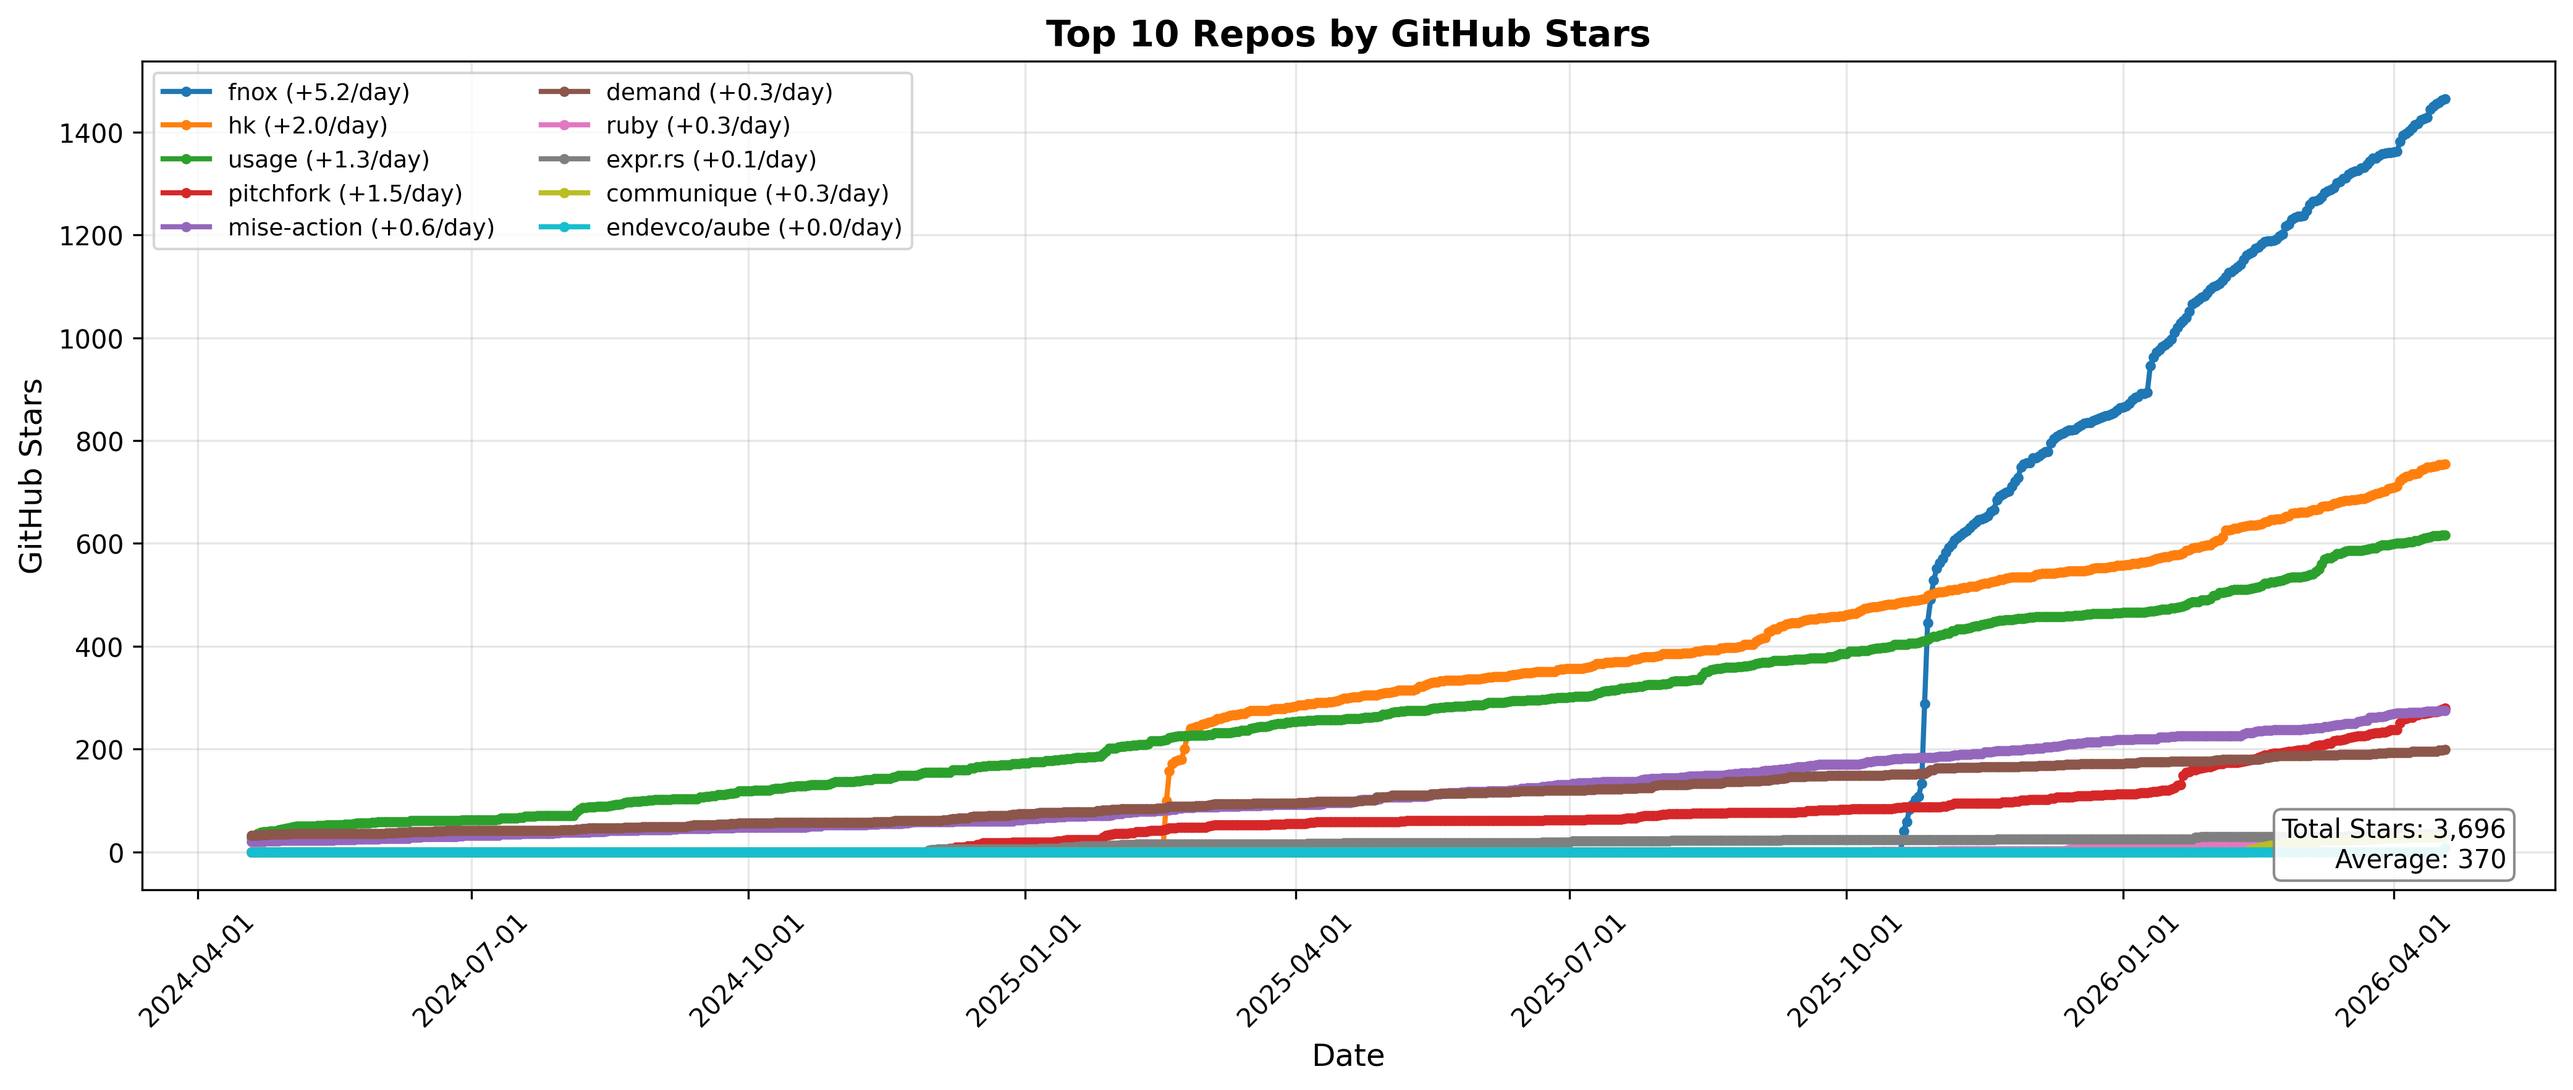
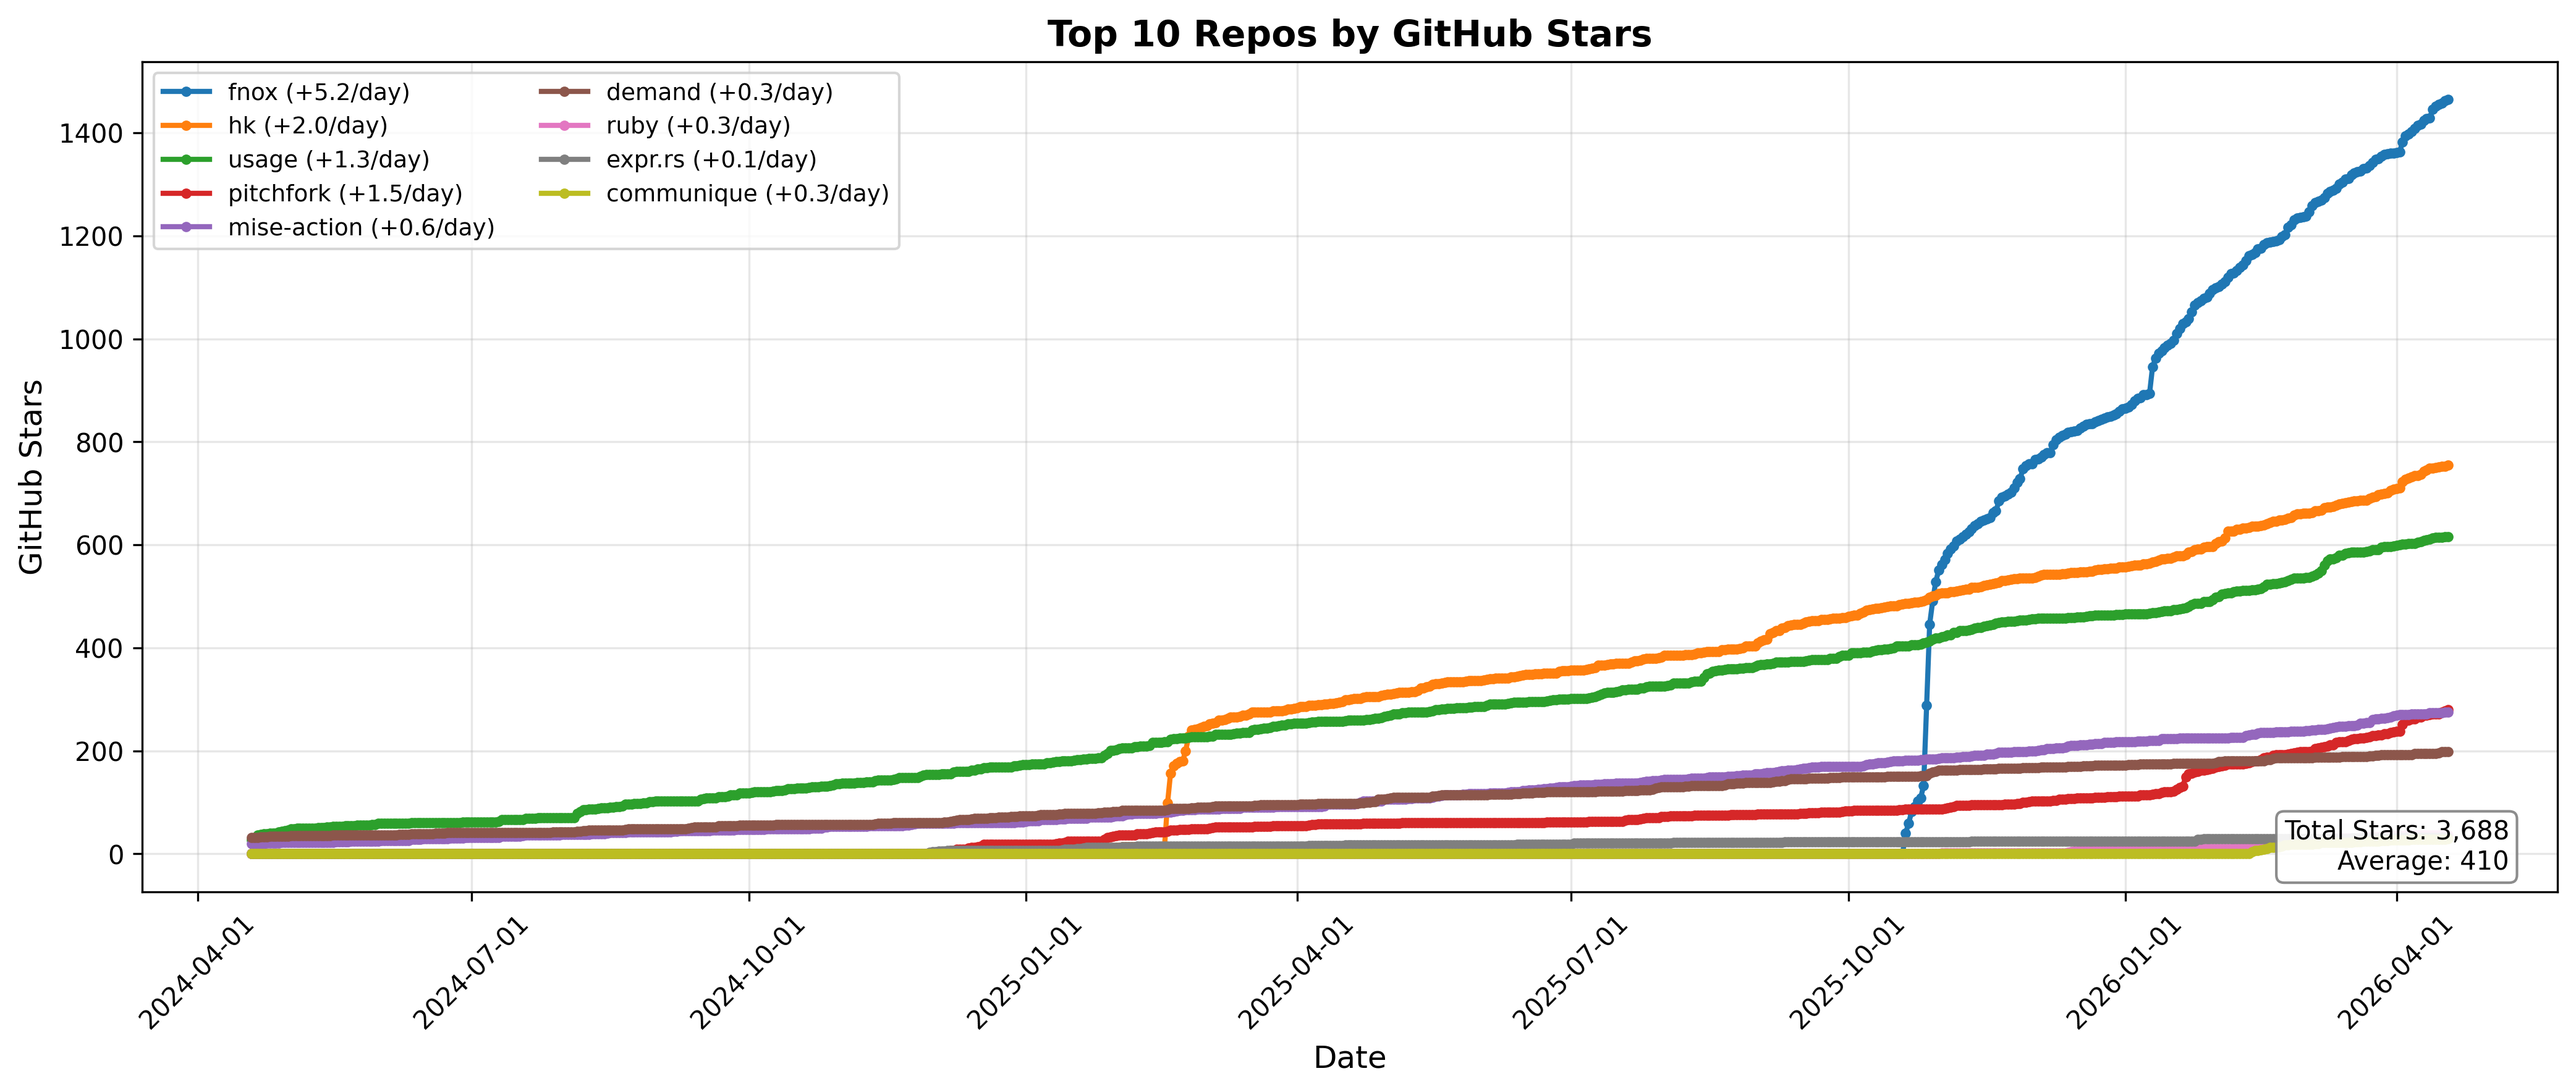
top 10 across tracked accounts
Replace the pinned-repo mechanism with a union fetch across multiple
GitHub accounts (jdx, endevco), then take the top 10 by stars. Restrict
the chart to repos currently in top-repos-list.txt so historical rows
for dropped-off repos don't linger in the plot.

diff --git a/mise-tasks/plot-top-repos.py b/mise-tasks/plot-top-repos.py
@@ -6,6 +6,25 @@ from matplotlib.dates import DateFormatter
 import numpy as np
 from scipy import stats
 
+DEFAULT_OWNER = 'jdx'
+
+
+def read_tracked_repo_names():
+    """Read current tracked repos from top-repos-list.txt, normalized to CSV repo_name."""
+    names = []
+    with open('top-repos-list.txt', 'r') as f:
+        for line in f:
+            line = line.strip()
+            if not line or line.startswith('#'):
+                continue
+            if '/' in line:
+                owner, repo = line.split('/', 1)
+                names.append(repo if owner == DEFAULT_OWNER else line)
+            else:
+                names.append(line)
+    return names
+
+
 # Read the CSV file
 df = pd.read_csv('top-repos.csv')
 
@@ -16,6 +35,11 @@ df['date'] = pd.to_datetime(df['date'])
 from datetime import datetime, timedelta
 two_years_ago = datetime.now() - timedelta(days=730)
 df = df[df['date'] >= two_years_ago]
+
+# Restrict to the currently tracked top 10 (excludes historical rows for
+# repos that dropped off the list)
+tracked = read_tracked_repo_names()
+df = df[df['repo_name'].isin(tracked)]
 
 # Exclude mise from top-repos visualization (but keep in CSV)
 df = df[df['repo_name'] != 'mise']
